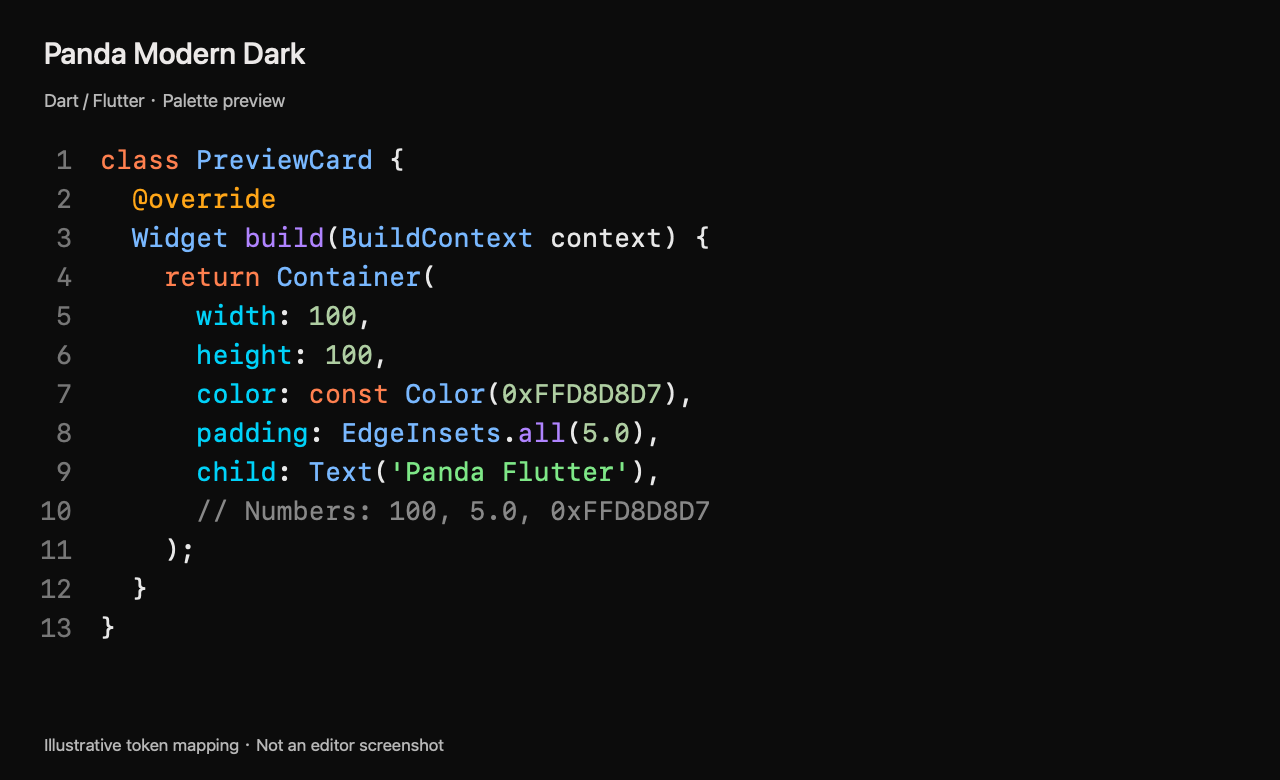
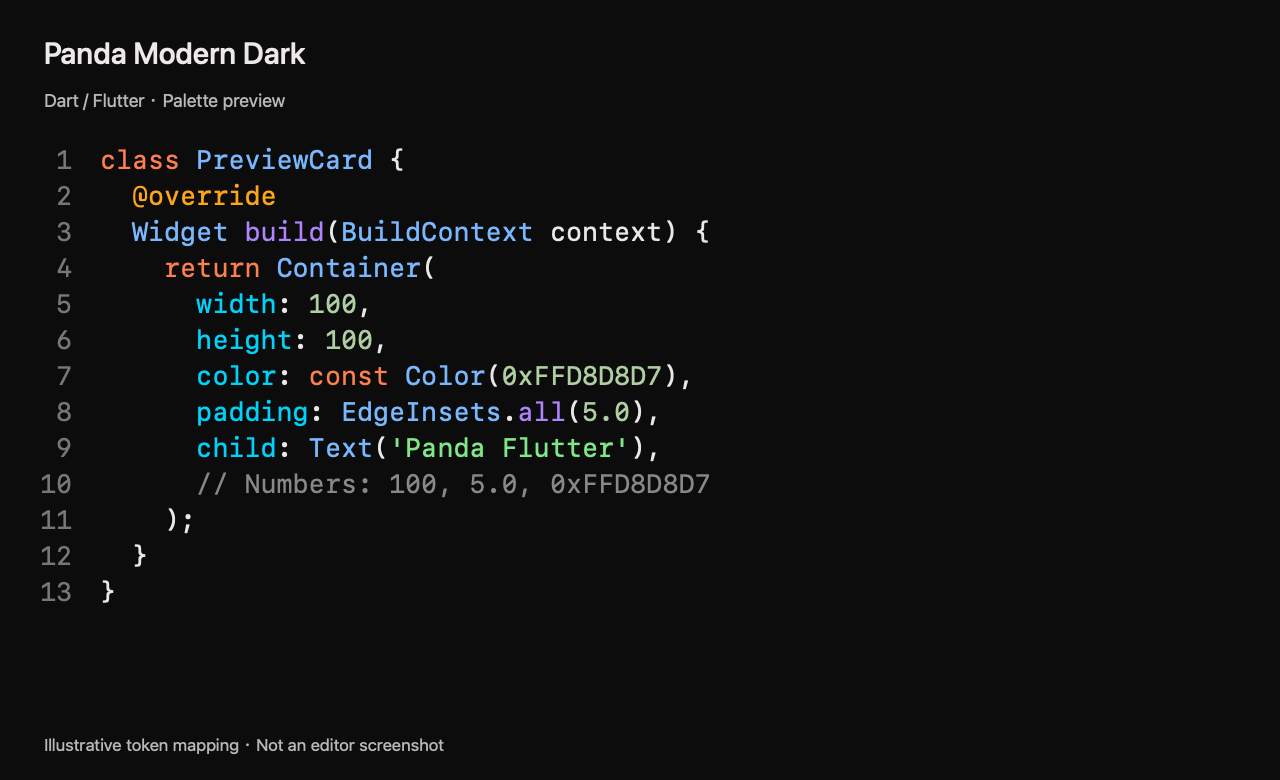
Add Kotlin Go Rust and C++ theme previews

diff --git a/tools/render-previews.swift b/tools/render-previews.swift
@@ -2,7 +2,7 @@
 import AppKit
 import Foundation
 struct Segment: Decodable { let text: String; let color: String }
-struct Preview: Decodable { let slug: String; let name: String; let background: String; let lines: [[Segment]] }
+struct Preview: Decodable { let slug: String; let name: String; let language: String; let background: String; let lines: [[Segment]] }
 func color(_ hex: String) -> NSColor {
     let rgb = UInt32(hex.dropFirst().prefix(6), radix: 16)!
     return NSColor(srgbRed: CGFloat((rgb >> 16) & 255)/255, green: CGFloat((rgb >> 8) & 255)/255, blue: CGFloat(rgb & 255)/255, alpha: 1)
@@ -23,9 +23,9 @@ for preview in previews {
         return (text as NSString).size(withAttributes: attrs).width
     }
     _ = draw(preview.name, 44, 710, "#ECE9E8", NSFont.systemFont(ofSize: 30, weight: .medium))
-    _ = draw("Dart / Flutter · Palette preview", 44, 669, "#B8B8B8", NSFont.systemFont(ofSize: 18))
+    _ = draw(preview.language + " · Palette preview", 44, 669, "#B8B8B8", NSFont.systemFont(ofSize: 18))
     for (index, line) in preview.lines.enumerated() {
-        let y = CGFloat(606 - index * 39)
+        let y = CGFloat(606 - index * 36)
         _ = draw(String(format: "%2d", index+1), 40, y, "#777777", font)
         var x: CGFloat = 100
         for segment in line { x += draw(segment.text, x, y, segment.color, font) }

diff --git a/tools/preview-data.py b/tools/preview-data.py
@@ -1,5 +1,7 @@
 """Produce palette preview data from theme semantic colors; output JSON to stdout."""
 import json
+import re
+import html
 from pathlib import Path
 root = Path(__file__).resolve().parent.parent
 lines = [
@@ -14,6 +16,19 @@ lines = [
  [('property','      child'),('text',': '),('type','Text'),('text','('),('string',"'Panda Flutter'"),('text','),')],
  [('comment','      // Numbers: 100, 5.0, 0xFFD8D8D7')],
  [('text','    );')], [('text','  }')], [('text','}')]]
+samples = {"dart": {"label": "Dart / Flutter", "lines": lines}}
+for key, sample in json.loads((root/'tools/language-samples.json').read_text()).items():
+    parsed = []
+    for line in sample['code'].splitlines():
+        segments, end = [], 0
+        for match in re.finditer(r'\{([a-z]+)\|([^{}]*)\}', line):
+            if match.start() > end:
+                segments.append(('text', line[end:match.start()]))
+            segments.append((match[1], html.unescape(match[2])))
+            end = match.end()
+        segments.append(('text', line[end:]))
+        parsed.append(segments)
+    samples[key] = {'label': sample['label'], 'lines': parsed}
 previews=[]
 for p in sorted((root/'themes').glob('*-color-theme.json')):
  d=json.loads(p.read_text());sem=d['semanticTokenColors'];colors=d['colors']
@@ -22,5 +37,7 @@ for p in sorted((root/'themes').glob('*-color-theme.json')):
   v=sem.get(role,sem.get({'number':'numberLiteral','annotation':'annotation:dart'}.get(role,''),'#E8E8E8'))
   palette[role]=v['foreground'] if isinstance(v,dict) else v
  slug=p.stem.replace('-color-theme','')
- previews.append(dict(slug=slug,name=d.get('name',slug),background=colors['editor.background'],lines=[[dict(text=t,color=palette[r]) for r,t in line] for line in lines]))
+ for key, sample in samples.items():
+  filename = slug if key == 'dart' else slug + '-' + key
+  previews.append(dict(slug=filename,name=d.get('name',slug),language=sample['label'],background=colors['editor.background'],lines=[[dict(text=t,color=palette[r]) for r,t in line] for line in sample['lines']]))
 print(json.dumps(previews))

diff --git a/README.md b/README.md
@@ -91,23 +91,107 @@ Select **Panda Flutter Dark** from **Preferences: Color Theme**.
 
 Generated from the VS Code theme color definitions. These illustrate token colors; they are not editor screenshots. Language grammars and semantic providers can assign different roles. Font styling is simplified in these previews.
 
-以下为主题源码生成的配色示意图，不是编辑器实机截图；具体高亮分类由语言扩展决定，预览简化了字体样式。
+示例覆盖 Dart / Flutter、Kotlin、Go、Rust 和 C++。以下为主题源码生成的配色示意图，不是编辑器实机截图；具体高亮分类由语言扩展决定，预览简化了字体样式。
 
 ### Panda Vivid Black
 
 ![Panda Vivid Black Dart palette preview](images/panda-vivid-black-preview.png)
 
+<details>
+<summary>Kotlin · Go · Rust · C++</summary>
+
+**Kotlin**
+
+![Panda Vivid Black Kotlin palette preview](images/panda-vivid-black-kotlin-preview.png)
+
+**Go**
+
+![Panda Vivid Black Go palette preview](images/panda-vivid-black-go-preview.png)
+
+**Rust**
+
+![Panda Vivid Black Rust palette preview](images/panda-vivid-black-rust-preview.png)
+
+**C++**
+
+![Panda Vivid Black C++ palette preview](images/panda-vivid-black-cpp-preview.png)
+
+</details>
+
 ### Panda Modern Dark
 
 ![Panda Modern Dark Dart palette preview](images/panda-modern-dark-preview.png)
+
+<details>
+<summary>Kotlin · Go · Rust · C++</summary>
+
+**Kotlin**
+
+![Panda Modern Dark Kotlin palette preview](images/panda-modern-dark-kotlin-preview.png)
+
+**Go**
+
+![Panda Modern Dark Go palette preview](images/panda-modern-dark-go-preview.png)
+
+**Rust**
+
+![Panda Modern Dark Rust palette preview](images/panda-modern-dark-rust-preview.png)
+
+**C++**
+
+![Panda Modern Dark C++ palette preview](images/panda-modern-dark-cpp-preview.png)
+
+</details>
 
 ### Panda Modern Cyan
 
 ![Panda Modern Cyan Dart palette preview](images/panda-modern-cyan-preview.png)
 
+<details>
+<summary>Kotlin · Go · Rust · C++</summary>
+
+**Kotlin**
+
+![Panda Modern Cyan Kotlin palette preview](images/panda-modern-cyan-kotlin-preview.png)
+
+**Go**
+
+![Panda Modern Cyan Go palette preview](images/panda-modern-cyan-go-preview.png)
+
+**Rust**
+
+![Panda Modern Cyan Rust palette preview](images/panda-modern-cyan-rust-preview.png)
+
+**C++**
+
+![Panda Modern Cyan C++ palette preview](images/panda-modern-cyan-cpp-preview.png)
+
+</details>
+
 ### Panda Flutter Dark
 
 ![Panda Flutter Dark Dart palette preview](images/panda-flutter-dark-preview.png)
+
+<details>
+<summary>Kotlin · Go · Rust · C++</summary>
+
+**Kotlin**
+
+![Panda Flutter Dark Kotlin palette preview](images/panda-flutter-dark-kotlin-preview.png)
+
+**Go**
+
+![Panda Flutter Dark Go palette preview](images/panda-flutter-dark-go-preview.png)
+
+**Rust**
+
+![Panda Flutter Dark Rust palette preview](images/panda-flutter-dark-rust-preview.png)
+
+**C++**
+
+![Panda Flutter Dark C++ palette preview](images/panda-flutter-dark-cpp-preview.png)
+
+</details>
 
 ## In the editor / 实际运行截图
 

diff --git a/CHANGELOG.md b/CHANGELOG.md
@@ -2,7 +2,7 @@
 
 ## 1.3.2 — 2026-11-24
 
-- Add four source-derived palette previews, refresh extension metadata, and document Flutter Dark activation and numeric color overrides. Syntax colors are unchanged from 1.3.1.
+- Add source-derived palette previews for all four themes across Dart/Flutter, Kotlin, Go, Rust and C++, refresh extension metadata, and document Flutter Dark activation and numeric color overrides. Syntax colors are unchanged from 1.3.1.
 
 ## 1.3.1 — 2026-11-20
 
